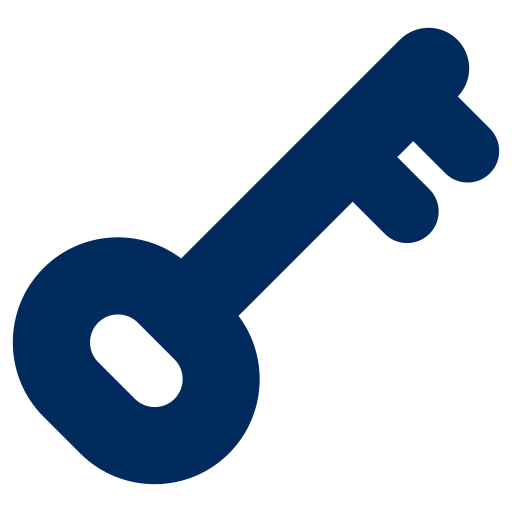
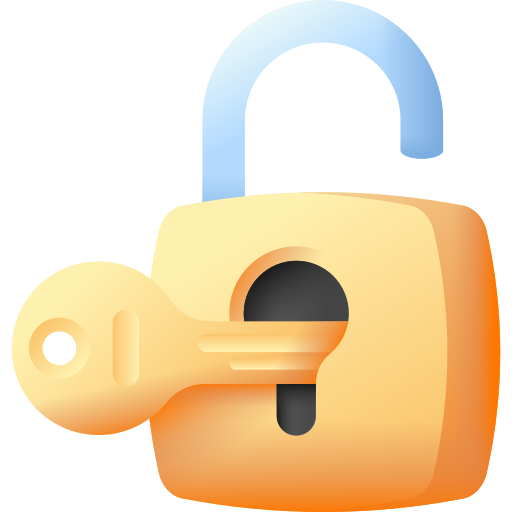
fix filter cars

diff --git a/src/components/Hero.tsx b/src/components/Hero.tsx
@@ -1,6 +1,5 @@
-import Image from "next/image";
 import { RiArrowDropRightLine } from "react-icons/ri";
-
+import { MdOutlineVerifiedUser } from "react-icons/md";
 const wordsRender: string[] = [
   "Global Shipping",
   "Aftersales Support",
@@ -15,18 +14,11 @@ function Hero() {
       <div className="mx-auto max-w-screen-xl px-4 py-8 text-center lg:px-12 lg:py-16">
         <a
           href="https://nolemons.help/buyer-protection"
-          className="mb-7 inline-flex items-center justify-between rounded-full bg-gray-100 px-1 py-1 pr-4 text-sm text-gray-700 hover:bg-gray-200"
+          className="mb-7 inline-flex items-center justify-between rounded-full bg-gray-100 px-4 py-2 pr-4 text-sm text-gray-700 hover:bg-gray-200"
           role="alert"
         >
-          <div className="mr-3 px-4 py-1.5">
-            <Image
-              src="/images/protected.png"
-              alt="Protected"
-              width={30}
-              height={30}
-              priority
-            />
-          </div>
+          <MdOutlineVerifiedUser className="text-xl md:text-3xl mr-3" />
+
           <span className="font-small text-sm">Full Buyer Protection</span>
           <RiArrowDropRightLine className="text-3xl" />
         </a>

diff --git a/src/components/cars-filter/index.tsx b/src/components/cars-filter/index.tsx
@@ -19,25 +19,25 @@ const categories = [
 export default function CarsFilter() {
   const search_params = useSearchParams();
   const pathname = usePathname();
-  const { replace } = useRouter();
+  const { push } = useRouter();
   const curr_active = search_params.get("cat") ?? "";
 
   function handleFilter(val: string) {
     const params = new URLSearchParams(search_params);
     params.set("cat", val);
-    replace(`${pathname}?${params.toString()}`, { scroll: false });
+    push(`${pathname}?${params.toString()}`, { scroll: false });
   }
 
   useEffect(() => {
     const params = new URLSearchParams(search_params);
     if (!params.has("cat")) {
       params.set("cat", "uae");
-      replace(`${pathname}?${params.toString()}`);
+      push(`${pathname}?${params.toString()}`);
     }
-  }, []);
+  }, [search_params]);
 
   return (
-    <div className=" flex mb-5 shadow-md rounded-md overflow-hidden w-fit">
+    <div className=" flex md:mb-10 mb-6  shadow-md rounded-md overflow-hidden w-fit">
       {categories.map((filter) => (
         <button
           key={filter.value}
@@ -56,7 +56,7 @@ export default function CarsFilter() {
             />
           </div>
           <span
-            className={`text-xs transition-colors duration-500 ${
+            className={`text-xs md:text-base transition-colors duration-500 ${
               curr_active == filter.value ? " text-white" : ""
             }`}
           >

diff --git a/src/components/cars-detail/cars-page.tsx b/src/components/cars-detail/cars-page.tsx
@@ -33,7 +33,7 @@ export default function CarsPage({ cars = [] }: ICarsPageProps) {
     setShowSpinner(true);
     const timer = setTimeout(() => {
       setShowSpinner(false);
-    }, 1000);
+    }, 500);
 
     return () => {
       clearTimeout(timer);